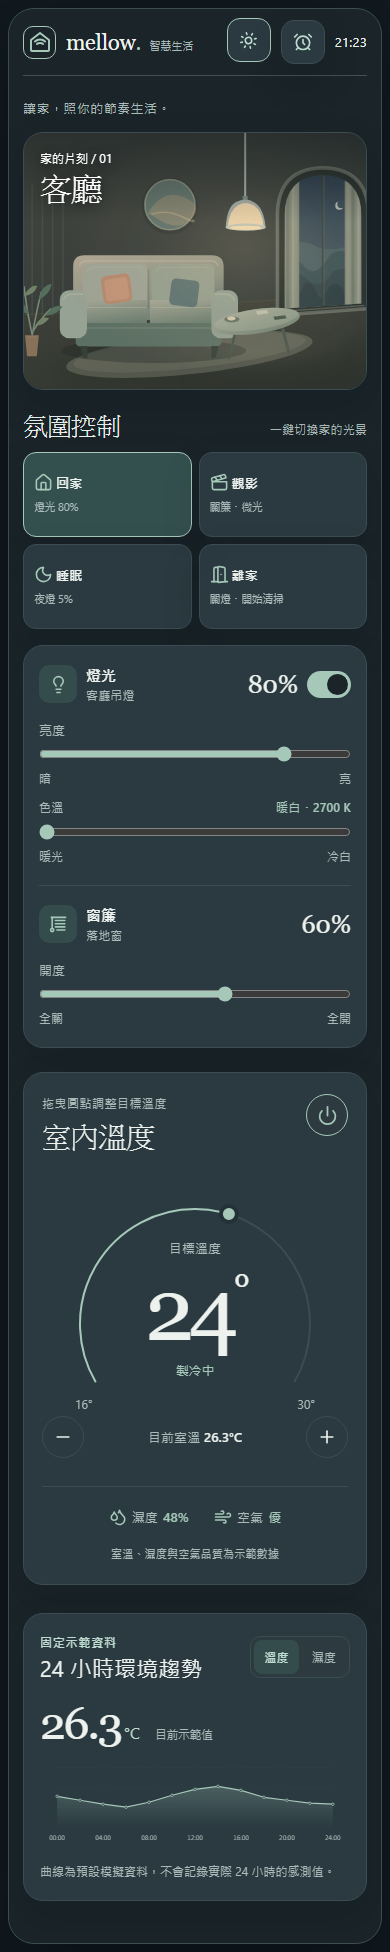
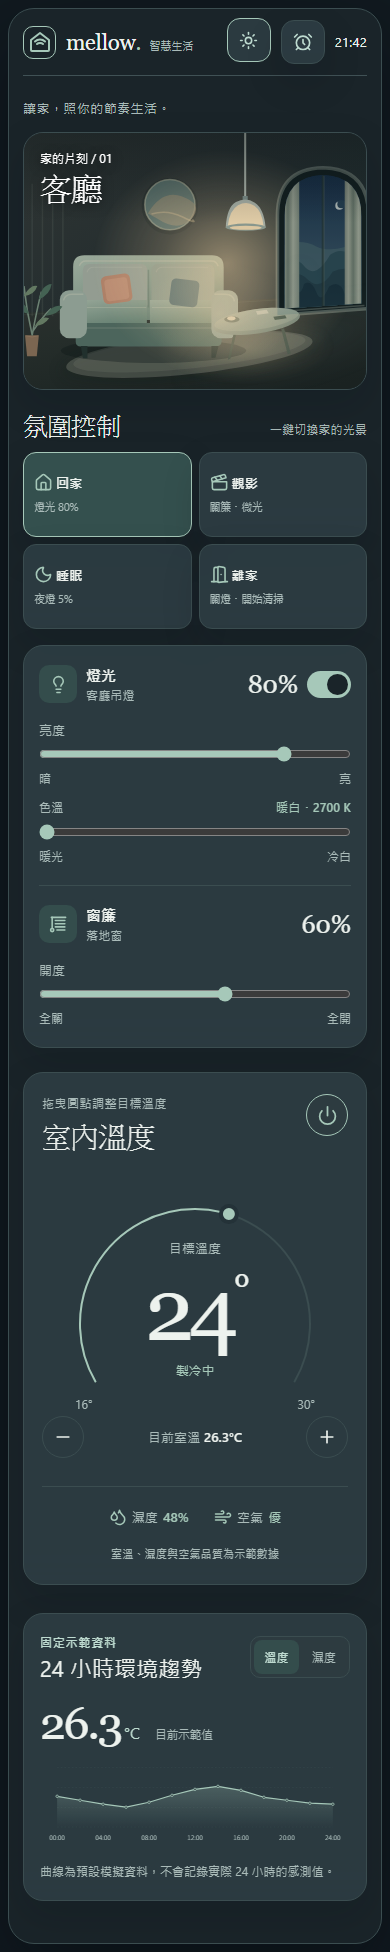
Refine living room day night lighting layers

Changed region(s): [[0.4615, 0.0625, 0.8923, 0.1875], [0.9231, 0.0938, 0.9538, 0.1562]]

diff --git a/src/components/LivingRoomScene.vue b/src/components/LivingRoomScene.vue
@@ -13,9 +13,9 @@ const curtainOpen = computed(() => props.curtainPosition / 100);
 const panelWidth = computed(() => 9 + 74 * (1 - curtainOpen.value));
 const rightPanelX = computed(() => 731 - panelWidth.value);
 const moonlight = computed(() => props.theme === "dark"
-  ? Number((curtainOpen.value * (0.55 - 0.4 * lampPower.value)).toFixed(3)) : 0);
+  ? Number((curtainOpen.value * 0.38).toFixed(3)) : 0);
 const daylight = computed(() => props.theme === "light"
-  ? Number((curtainOpen.value * (0.65 - 0.18 * lampPower.value)).toFixed(3)) : 0);
+  ? Number((curtainOpen.value * 0.82).toFixed(3)) : 0);
 const isDay = computed(() => props.theme === "light");
 const lampColor = computed(() => {
   const cool = (props.colorTemp - 2700) / 3800;
@@ -37,17 +37,18 @@ const lampColor = computed(() => {
         <stop offset="1" stop-color="#1c2423" />
       </linearGradient>
       <linearGradient id="day-wall" x1="0" y1="0" x2="1" y2="1">
-        <stop offset="0" stop-color="#efe9dc" />
-        <stop offset="1" stop-color="#d9dfd3" />
+        <stop offset="0" stop-color="#cbc8bd" />
+        <stop offset=".58" stop-color="#d9d5c9" />
+        <stop offset="1" stop-color="#e4dfd2" />
       </linearGradient>
       <linearGradient id="day-floor" x1="0" y1="0" x2="0.9" y2="1">
-        <stop offset="0" stop-color="#d5cabb" />
-        <stop offset="1" stop-color="#b9b4a9" />
+        <stop offset="0" stop-color="#aaa79d" />
+        <stop offset="1" stop-color="#c8bdac" />
       </linearGradient>
       <linearGradient id="day-sky" x1="0" y1="0" x2="0" y2="1">
-        <stop offset="0" stop-color="#a7c8d0" />
-        <stop offset="0.62" stop-color="#dae3dc" />
-        <stop offset="1" stop-color="#f0e4cf" />
+        <stop offset="0" stop-color="#8ebfce" />
+        <stop offset="0.62" stop-color="#c5dfe0" />
+        <stop offset="1" stop-color="#f1e6cf" />
       </linearGradient>
       <linearGradient id="night-sky" x1="0" y1="0" x2="0" y2="1">
         <stop offset="0" stop-color="#172d45" />
@@ -61,25 +62,30 @@ const lampColor = computed(() => {
         <stop offset="0.69" stop-color="#969e90" />
         <stop offset="1" stop-color="#738075" />
       </linearGradient>
+      <linearGradient id="curtain-fabric-day" x1="0" y1="0" x2="1" y2="0">
+        <stop offset="0" stop-color="#a8aa9d" />
+        <stop offset=".47" stop-color="#cbcbb9" />
+        <stop offset="1" stop-color="#aeb2a5" />
+      </linearGradient>
       <pattern id="curtain-folds" width="16" height="12" patternUnits="userSpaceOnUse">
-        <path d="M3 0V12M12 0V12" stroke="#26312d" stroke-opacity=".15" stroke-width="2" />
+        <path d="M3 0V12M12 0V12" stroke="#26312d" stroke-opacity=".06" stroke-width="1.5" />
       </pattern>
       <linearGradient id="sofa-back" x1="0" y1="0" x2="0.8" y2="1">
-        <stop offset="0" stop-color="#b3aa99" />
-        <stop offset="0.65" stop-color="#868f85" />
-        <stop offset="1" stop-color="#566d69" />
+        <stop offset="0" stop-color="#a6b5a5" />
+        <stop offset="0.65" stop-color="#829889" />
+        <stop offset="1" stop-color="#58756b" />
       </linearGradient>
       <linearGradient id="sofa-seat" x1="0" y1="0" x2="0.4" y2="1">
-        <stop offset="0" stop-color="#a6ab9c" />
-        <stop offset="1" stop-color="#62796f" />
+        <stop offset="0" stop-color="#9faf9f" />
+        <stop offset="1" stop-color="#6d8879" />
       </linearGradient>
       <linearGradient id="table-top" x1="0" y1="0" x2="0.7" y2="1">
         <stop offset="0" stop-color="#a5afa1" />
         <stop offset="1" stop-color="#6e8176" />
       </linearGradient>
       <radialGradient id="lamp-halo">
-        <stop offset="0" :stop-color="lampColor" stop-opacity=".53" />
-        <stop offset=".48" :stop-color="lampColor" stop-opacity=".2" />
+        <stop offset="0" :stop-color="lampColor" stop-opacity=".8" data-testid="lamp-halo-color" />
+        <stop offset=".48" :stop-color="lampColor" stop-opacity=".33" />
         <stop offset="1" :stop-color="lampColor" stop-opacity="0" />
       </radialGradient>
       <radialGradient id="moon-beam">
@@ -92,9 +98,17 @@ const lampColor = computed(() => {
         <stop offset=".55" stop-color="#f9e8c3" stop-opacity=".25" />
         <stop offset="1" stop-color="#f9e8c3" stop-opacity="0" />
       </radialGradient>
+      <radialGradient id="window-bounce">
+        <stop offset="0" stop-color="#fff4dc" stop-opacity=".35" />
+        <stop offset="1" stop-color="#fff4dc" stop-opacity="0" />
+      </radialGradient>
       <clipPath id="window-glass">
         <path d="M575 162Q575 85 650 82Q725 85 725 162V333L575 343Z" />
       </clipPath>
+      <mask id="indoor-light-mask" maskUnits="userSpaceOnUse">
+        <rect width="800" height="500" fill="#fff" />
+        <path d="M561 162Q561 70 650 68Q739 70 739 162V343L561 356Z" fill="#000" />
+      </mask>
       <filter id="room-soft-shadow" x="-30%" y="-40%" width="160%" height="190%">
         <feGaussianBlur stdDeviation="13" />
       </filter>
@@ -137,10 +151,10 @@ const lampColor = computed(() => {
         </g>
         <path d="M650 82V340" stroke="#243433" stroke-opacity=".7" stroke-width="5" />
         <path d="M652 84V339" stroke="#b2baaa" stroke-opacity=".19" stroke-width="2" />
-        <rect x="565" y="65" :width="panelWidth" height="284" fill="url(#curtain-fabric)" data-testid="curtain-panel-left" />
-        <rect x="565" y="65" :width="panelWidth" height="284" fill="url(#curtain-folds)" opacity=".7" />
-        <rect :x="rightPanelX" y="65" :width="panelWidth" height="284" fill="url(#curtain-fabric)" data-testid="curtain-panel-right" />
-        <rect :x="rightPanelX" y="65" :width="panelWidth" height="284" fill="url(#curtain-folds)" opacity=".7" />
+        <rect x="565" y="65" :width="panelWidth" height="284" :fill="isDay ? 'url(#curtain-fabric-day)' : 'url(#curtain-fabric)'" data-testid="curtain-panel-left" />
+        <rect x="565" y="65" :width="panelWidth" height="284" fill="url(#curtain-folds)" opacity=".45" />
+        <rect :x="rightPanelX" y="65" :width="panelWidth" height="284" :fill="isDay ? 'url(#curtain-fabric-day)' : 'url(#curtain-fabric)'" data-testid="curtain-panel-right" />
+        <rect :x="rightPanelX" y="65" :width="panelWidth" height="284" fill="url(#curtain-folds)" opacity=".45" />
       </g>
       <path d="M561 162Q561 70 650 68Q739 70 739 162V343L561 356Z" stroke="#a9b9aa" stroke-opacity=".4" stroke-width="7" fill="none" />
       <path d="M572 348 731 337" stroke="#b7c2af" stroke-opacity=".28" stroke-width="3" />
@@ -191,25 +205,26 @@ const lampColor = computed(() => {
     <rect data-testid="room-night-shade" width="800" height="500" fill="#071016"
       :style="{ opacity: isDay ? 0 : Number(((1 - lampPower) * 0.28).toFixed(3)) }" />
     <g data-testid="daylight-spill" :style="{ opacity: daylight }">
-      <ellipse cx="590" cy="404" rx="308" ry="98" transform="rotate(-17 590 404)" fill="url(#day-beam)" />
-      <ellipse cx="578" cy="300" rx="105" ry="136" fill="url(#day-beam)" opacity=".24" />
+      <ellipse cx="611" cy="267" rx="192" ry="194" fill="url(#window-bounce)" />
+      <ellipse cx="594" cy="402" rx="260" ry="91" transform="rotate(-17 594 402)" fill="url(#day-beam)" />
+      <ellipse cx="467" cy="345" rx="129" ry="88" fill="url(#window-bounce)" opacity=".45" />
     </g>
     <g data-testid="moonlight-spill" :style="{ opacity: moonlight }">
       <ellipse cx="617" cy="408" rx="306" ry="99" transform="rotate(-17 617 408)" fill="url(#moon-beam)" />
       <ellipse cx="605" cy="300" rx="92" ry="123" fill="url(#moon-beam)" opacity=".2" />
     </g>
-    <g data-testid="lamp-lit-room" :style="{ opacity: lampPower }">
-      <rect width="800" height="500" :fill="lampColor" :opacity="isDay ? 0.045 : 0.12" style="mix-blend-mode: screen" data-testid="room-light-wash" />
-      <ellipse cx="496" cy="225" rx="365" ry="262" fill="url(#lamp-halo)" opacity=".42" />
-      <ellipse cx="505" cy="425" rx="195" ry="44" fill="url(#lamp-halo)" opacity=".13" />
+    <g data-testid="lamp-lit-room" mask="url(#indoor-light-mask)" :style="{ opacity: lampPower }">
+      <ellipse cx="462" cy="255" rx="264" ry="225" fill="url(#lamp-halo)" opacity=".82" data-testid="room-light-wash" />
+      <ellipse cx="447" cy="353" rx="152" ry="98" fill="url(#lamp-halo)" opacity=".5" />
+      <ellipse cx="500" cy="419" rx="176" ry="75" fill="url(#lamp-halo)" opacity=".32" />
     </g>
     <g class="pendant-lamp" data-testid="pendant-lamp">
       <path d="M498 0V125" stroke="#a8b1a7" stroke-width="4" />
       <path d="M493 123H503V133H493Z" fill="#788984" />
       <path d="M460 185Q462 145 480 135Q499 124 517 136Q535 148 538 185Z" fill="#a2aaa0" />
-      <path d="M464 182Q467 151 484 141Q501 132 516 142Q531 152 534 182Z" :fill="lampColor" :opacity="0.14 + lampPower * 0.8" />
-      <ellipse cx="499" cy="184" rx="39" ry="7" fill="#c2c4b2" />
-      <ellipse cx="499" cy="185" rx="31" ry="4" :fill="lampColor" :opacity="0.17 + lampPower * 0.8" />
+      <path d="M464 182Q467 151 484 141Q501 132 516 142Q531 152 534 182Z" :fill="lampColor" :opacity="lampPower * 0.84" />
+      <ellipse cx="499" cy="184" rx="39" ry="7" fill="#89978d" />
+      <ellipse cx="499" cy="185" rx="31" ry="4" :fill="lampColor" :opacity="lampPower * 0.9" data-testid="pendant-emitter" />
     </g>
   </svg>
 </template>

diff --git a/tests/dashboard.spec.ts b/tests/dashboard.spec.ts
@@ -76,17 +76,28 @@ test("窗簾由中央向左右拉開且不影響室內照明", async ({ page }) 
   const slider = page.locator("#living-curtain-position");
   const left = page.getByTestId("curtain-panel-left");
   const right = page.getByTestId("curtain-panel-right");
+  await page.locator("#living-brightness").focus();
+  await page.keyboard.press("Home");
+  await expect(page.getByTestId("lamp-lit-room")).toHaveCSS("opacity", "0");
   await slider.evaluate((input) => {
     (input as HTMLInputElement).value = "0";
     input.dispatchEvent(new Event("input", { bubbles: true }));
   });
   await expect(page.getByTestId("daylight-spill")).toHaveCSS("opacity", "0");
+  await page.locator(".room-stage").screenshot({ path: "output/playwright/curtain-day-0.png", animations: "disabled" });
   await slider.evaluate((input) => {
     (input as HTMLInputElement).value = "100";
     input.dispatchEvent(new Event("input", { bubbles: true }));
   });
   await expect(page.getByTestId("daylight-spill")).not.toHaveCSS("opacity", "0");
   await expect(page.getByTestId("moonlight-spill")).toHaveCSS("opacity", "0");
+  await page.locator(".room-stage").screenshot({ path: "output/playwright/curtain-day-100.png", animations: "disabled" });
+  await slider.evaluate((input) => {
+    (input as HTMLInputElement).value = "50";
+    input.dispatchEvent(new Event("input", { bubbles: true }));
+  });
+  await expect(page.getByTestId("daylight-spill")).toHaveCSS("opacity", "0.41");
+  await page.locator(".room-stage").screenshot({ path: "output/playwright/curtain-day-50.png", animations: "disabled" });
   await page.getByRole("button", { name: "切換至夜晚模式" }).click();
   for (const position of [0, 25, 49, 50, 51, 75, 100]) {
     await slider.evaluate((input, value) => {
@@ -97,7 +108,7 @@ test("窗簾由中央向左右拉開且不影響室內照明", async ({ page }) 
     expect(Number(await left.getAttribute("width"))).toBeCloseTo(curtainWidthAt(position));
     expect(Number(await right.getAttribute("width"))).toBeCloseTo(curtainWidthAt(position));
     expect(Number(await right.getAttribute("x"))).toBeCloseTo(731 - curtainWidthAt(position));
-    const moonlight = Number((position / 100 * (0.55 - 0.4 * Math.pow(0.8, 1.12))).toFixed(3));
+    const moonlight = Number((position / 100 * 0.38).toFixed(3));
     await expect(page.getByTestId("moonlight-spill")).toHaveCSS("opacity", String(moonlight));
     if ([0, 50, 100].includes(position)) {
       await page.locator(".room-stage").screenshot({ path: `output/playwright/curtain-${position}.png` });
@@ -147,6 +158,19 @@ test("場景情境同步設備及溫度，重新整理後保留", async ({ page 
   await expect(page.locator(".toast")).toHaveCount(0);
 });
 
+test("情境切換保留手動日夜主題", async ({ page }) => {
+  await page.getByRole("button", { name: "切換至夜晚模式" }).click();
+  await page.locator(".scene-presets button").filter({ hasText: "觀影" }).click();
+  await expect(page.locator("html")).toHaveAttribute("data-theme", "dark");
+  await expect(page.locator("#living-brightness")).toHaveValue("12");
+  await expect(page.getByTestId("moonlight-spill")).toHaveCSS("opacity", "0");
+  await page.getByRole("button", { name: "切換至白天模式" }).click();
+  await expect(page.locator("#living-brightness")).toHaveValue("12");
+  await page.locator(".scene-presets button").filter({ hasText: "回家" }).click();
+  await expect(page.locator("html")).toHaveAttribute("data-theme", "light");
+  await expect(page.getByTestId("daylight-spill")).toHaveCSS("opacity", "0.492");
+});
+
 test("燈光與窗簾滑桿會改變場景並保存", async ({ page }) => {
   await page.setViewportSize({ width: 390, height: 844 });
   await page.getByRole("button", { name: "切換至夜晚模式" }).click();
@@ -167,16 +191,16 @@ test("燈光與窗簾滑桿會改變場景並保存", async ({ page }) => {
   await page.keyboard.press("End");
   await expect(page.getByTestId("lamp-lit-room")).toHaveCSS("opacity", "1");
   await expect(page.getByTestId("room-night-shade")).toHaveCSS("opacity", "0");
-  await expect(page.getByTestId("room-light-wash")).toHaveAttribute("fill", "rgb(221 241 247)");
+  await expect(page.getByTestId("lamp-halo-color")).toHaveAttribute("stop-color", "rgb(221 241 247)");
   await expect(page.locator(".room-stage")).not.toHaveAttribute("style", /stage-glow/);
   await page.locator(".room-stage").screenshot({ path: "output/playwright/room-closed-lit-390.png" });
   await page.locator("#living-curtain-position").focus();
   await page.keyboard.press("End");
   expect(Number(await page.getByTestId("curtain-panel-left").getAttribute("width"))).toBe(9);
-  await expect(page.getByTestId("moonlight-spill")).toHaveCSS("opacity", "0.15");
+  await expect(page.getByTestId("moonlight-spill")).toHaveCSS("opacity", "0.38");
   await page.locator("#living-brightness").focus();
   await page.keyboard.press("Home");
-  await expect(page.getByTestId("moonlight-spill")).toHaveCSS("opacity", "0.55");
+  await expect(page.getByTestId("moonlight-spill")).toHaveCSS("opacity", "0.38");
   await page.locator(".room-stage").screenshot({ path: "output/playwright/room-open-dark-390.png" });
   await page.keyboard.press("End");
   await expect(page.getByTestId("lamp-lit-room")).toHaveCSS("opacity", "1");
@@ -184,6 +208,68 @@ test("燈光與窗簾滑桿會改變場景並保存", async ({ page }) => {
   await page.reload();
   await expect(page.locator("#living-color-temp")).toHaveValue("6500");
   await expect(page.locator("#living-curtain-position")).toHaveValue("100");
+});
+
+test("日夜與吊燈四種光照在手機及桌機可區分", async ({ page }) => {
+  const brightness = page.locator("#living-brightness");
+  const curtain = page.locator("#living-curtain-position");
+  const setRange = async (selector: typeof brightness, value: number) => {
+    await selector.evaluate((input, next) => {
+      (input as HTMLInputElement).value = String(next);
+      input.dispatchEvent(new Event("input", { bubbles: true }));
+    }, value);
+  };
+  for (const width of [390, 1440]) {
+    await page.setViewportSize({ width, height: 900 });
+    if (await page.locator("html").getAttribute("data-theme") === "dark") {
+      await page.getByRole("button", { name: "切換至白天模式" }).click();
+    }
+    await setRange(curtain, 100);
+    await setRange(brightness, 0);
+    await expect(page.getByTestId("daylight-spill")).toHaveCSS("opacity", "0.82");
+    await expect(page.getByTestId("pendant-emitter")).toHaveCSS("opacity", "0");
+    await page.locator(".room-stage").screenshot({ path: `output/playwright/light-day-off-${width}.png`, animations: "disabled" });
+
+    await setRange(brightness, 80);
+    await expect(page.getByTestId("lamp-lit-room")).not.toHaveCSS("opacity", "0");
+    await expect(page.getByTestId("daylight-spill")).toHaveCSS("opacity", "0.82");
+    await page.locator(".room-stage").screenshot({ path: `output/playwright/light-day-on-${width}.png`, animations: "disabled" });
+
+    await page.getByRole("button", { name: "切換至夜晚模式" }).click();
+    await setRange(brightness, 0);
+    await expect(page.getByTestId("daylight-spill")).toHaveCSS("opacity", "0");
+    await expect(page.getByTestId("moonlight-spill")).toHaveCSS("opacity", "0.38");
+    await expect(page.getByTestId("pendant-emitter")).toHaveCSS("opacity", "0");
+    await page.locator(".room-stage").screenshot({ path: `output/playwright/light-night-off-${width}.png`, animations: "disabled" });
+
+    await setRange(brightness, 80);
+    await expect(page.getByTestId("moonlight-spill")).toHaveCSS("opacity", "0.38");
+    await page.locator(".room-stage").screenshot({ path: `output/playwright/light-night-on-${width}.png`, animations: "disabled" });
+  }
+});
+
+test("亮度連續調整只改變人工光，不改變月光", async ({ page }) => {
+  await page.setViewportSize({ width: 390, height: 844 });
+  await page.getByRole("button", { name: "切換至夜晚模式" }).click();
+  const brightness = page.locator("#living-brightness");
+  await expect(page.getByTestId("moonlight-spill")).toHaveCSS("opacity", "0.228");
+  const moonlightBefore = await page.getByTestId("moonlight-spill").evaluate((element) =>
+    getComputedStyle(element).opacity,
+  );
+  for (const value of [0, 25, 50, 75, 100]) {
+    await brightness.evaluate((input, next) => {
+      (input as HTMLInputElement).value = String(next);
+      input.dispatchEvent(new Event("input", { bubbles: true }));
+    }, value);
+    await expect(brightness).toHaveValue(String(value));
+    await expect.poll(async () => Number(await page.getByTestId("lamp-lit-room").evaluate((element) =>
+      getComputedStyle(element).opacity,
+    ))).toBeCloseTo(Math.pow(value / 100, 1.12), 2);
+    await expect(page.getByTestId("moonlight-spill")).toHaveCSS("opacity", moonlightBefore);
+    if (value === 50) {
+      await page.locator(".room-stage").screenshot({ path: "output/playwright/light-night-50-390.png", animations: "disabled" });
+    }
+  }
 });
 
 test("四個情境不跳通知，離家同步關燈與空調", async ({ page }) => {

diff --git a/DESIGN.md b/DESIGN.md
@@ -19,7 +19,8 @@
 ## 日夜場景
 
 - SVG 插畫保留家具與拱窗。白天顯示柔和天空與景物，夜晚顯示深藍天空與月牙。
-- 窗簾開度控制右側窗戶的光量；日光與月光以大範圍、低透明度的橢圓放射漸層呈現。吊燈由獨立的開關、亮度及色溫控制。
+- 場景分為環境底色、窗戶自然光與吊燈局部光三層。窗簾開度只控制窗邊的日光／月光；吊燈的開關、亮度及色溫不受日夜主題覆蓋。
+- 自然光以右側窗戶附近的低透明度放射漸層呈現。吊燈只照亮附近家具與地面，並以 SVG mask 避免人工光落到窗外景色。
 - 主題圖層以 `opacity` 過渡，互動約 180–350ms；`prefers-reduced-motion` 時縮短轉場。
 
 ## 可用性
